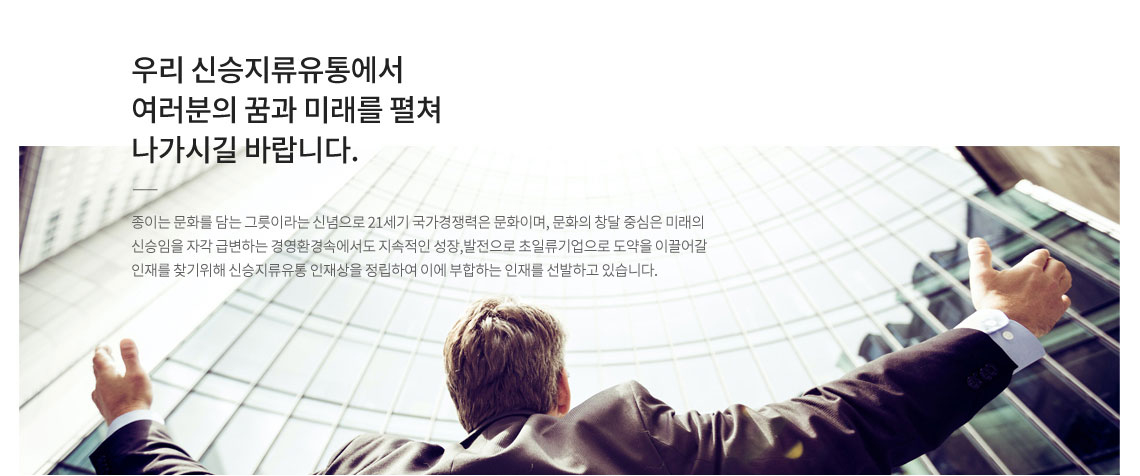
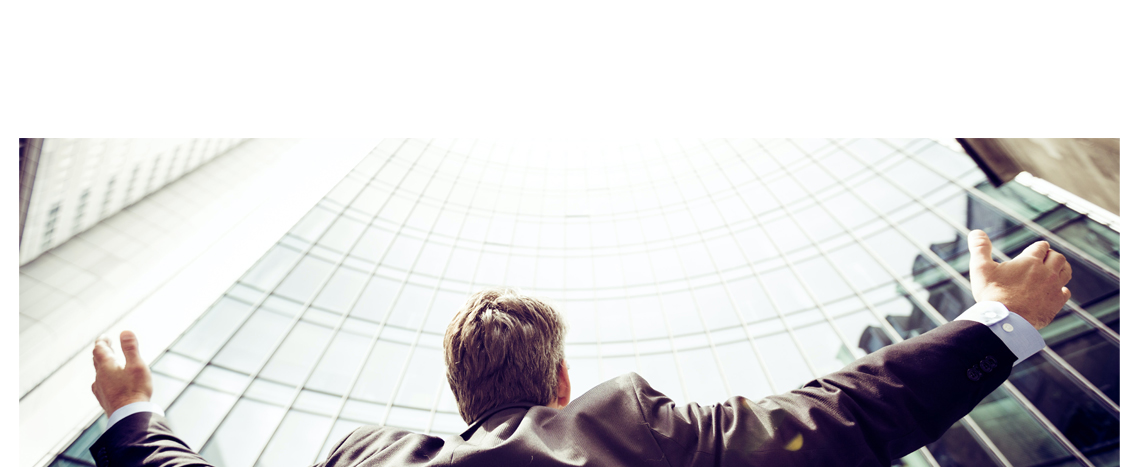
인재상 변경

diff --git a/resources/views/employment/recruit.blade.php b/resources/views/employment/recruit.blade.php
@@ -15,7 +15,23 @@
         인재상
         <span class="icon">···</span>
     </div>
-    <img src="{{ URL::asset('img/banner/infotest3.jpg') }}" alt="" style="max-width:100%" class="m100b">
+    <div>
+        <p class="title">
+            우리 (주)신승아이엔씨에서
+            <br>
+            여러분의 꿈과 미래를 펼쳐
+            <br>
+            나가시길 바랍니다.
+        </p>
+        <p class="content">
+            종이는 문화를 담는 그릇이라는 신념으로 21세기 국가경쟁력은 문화이며, 문화의 창달 중심은 미래의
+            <br>
+            신승임을 자각 급변하는 경영환경속에서도 지속적인 성장,발전으로 초일류기업으로 도약을 이끌어갈
+            <br>
+            인재를 찾기위해 (주)신승아이엔씨 인재상을 정립하여 이에 부합하는 인재를 선발하고 있습니다.
+        </p>
+    </div>
+    <img src="{{ URL::asset('img/banner/infotest3.jpg?2') }}" alt="" style="max-width:100%" class="m100b">
     <div class="history-map">
         <div class="history-content">
             <div class="year main history-scroll">
